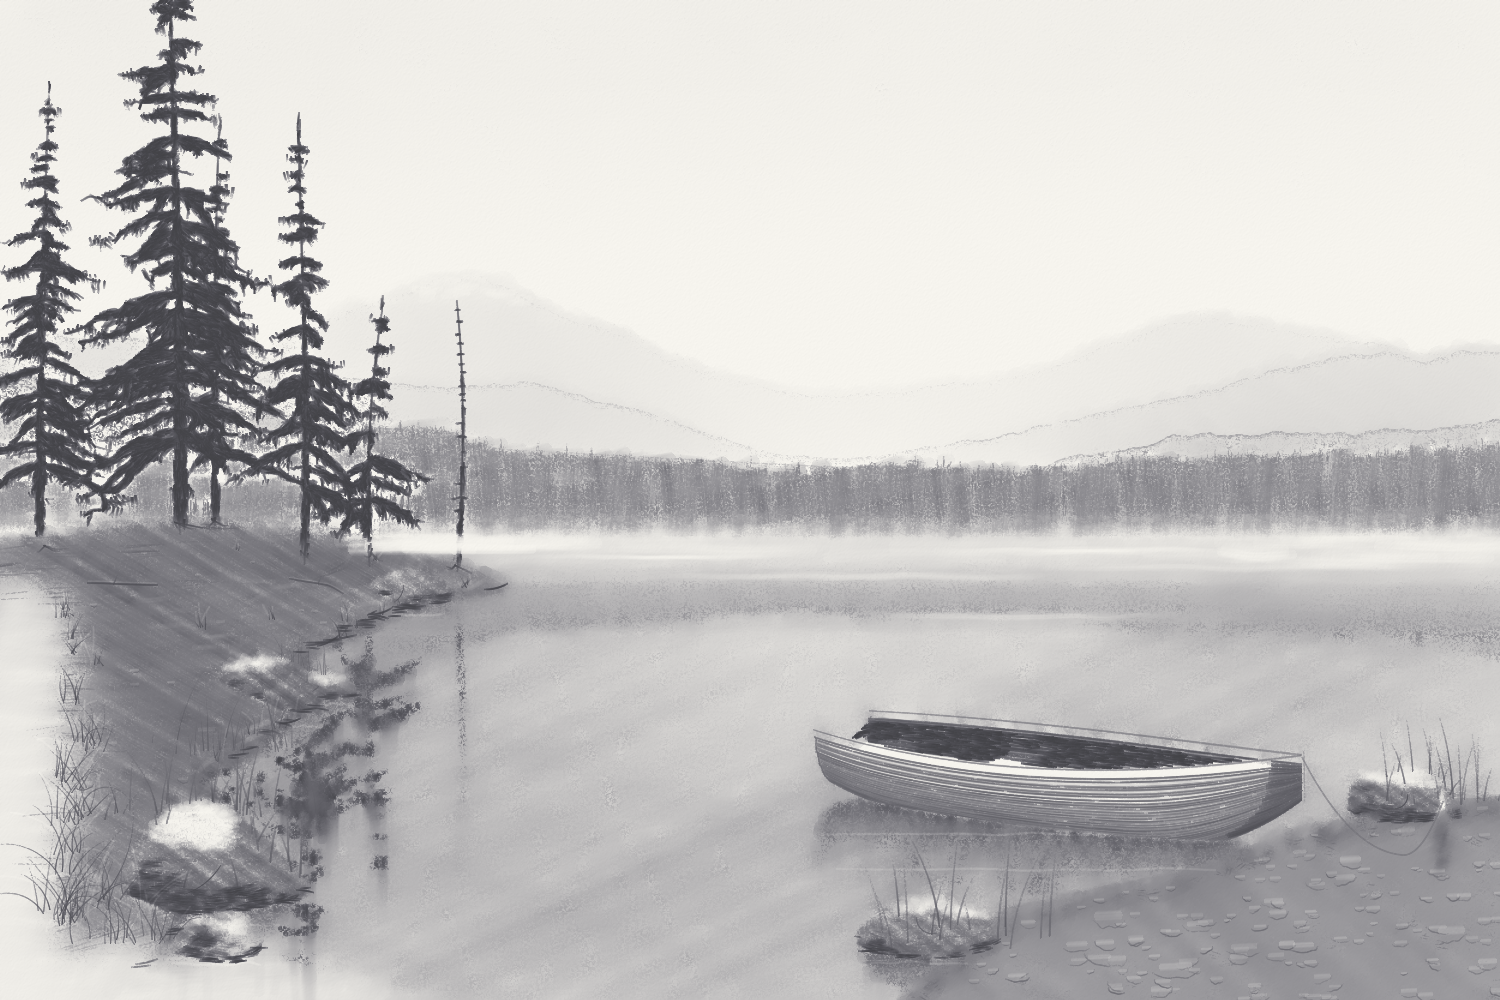
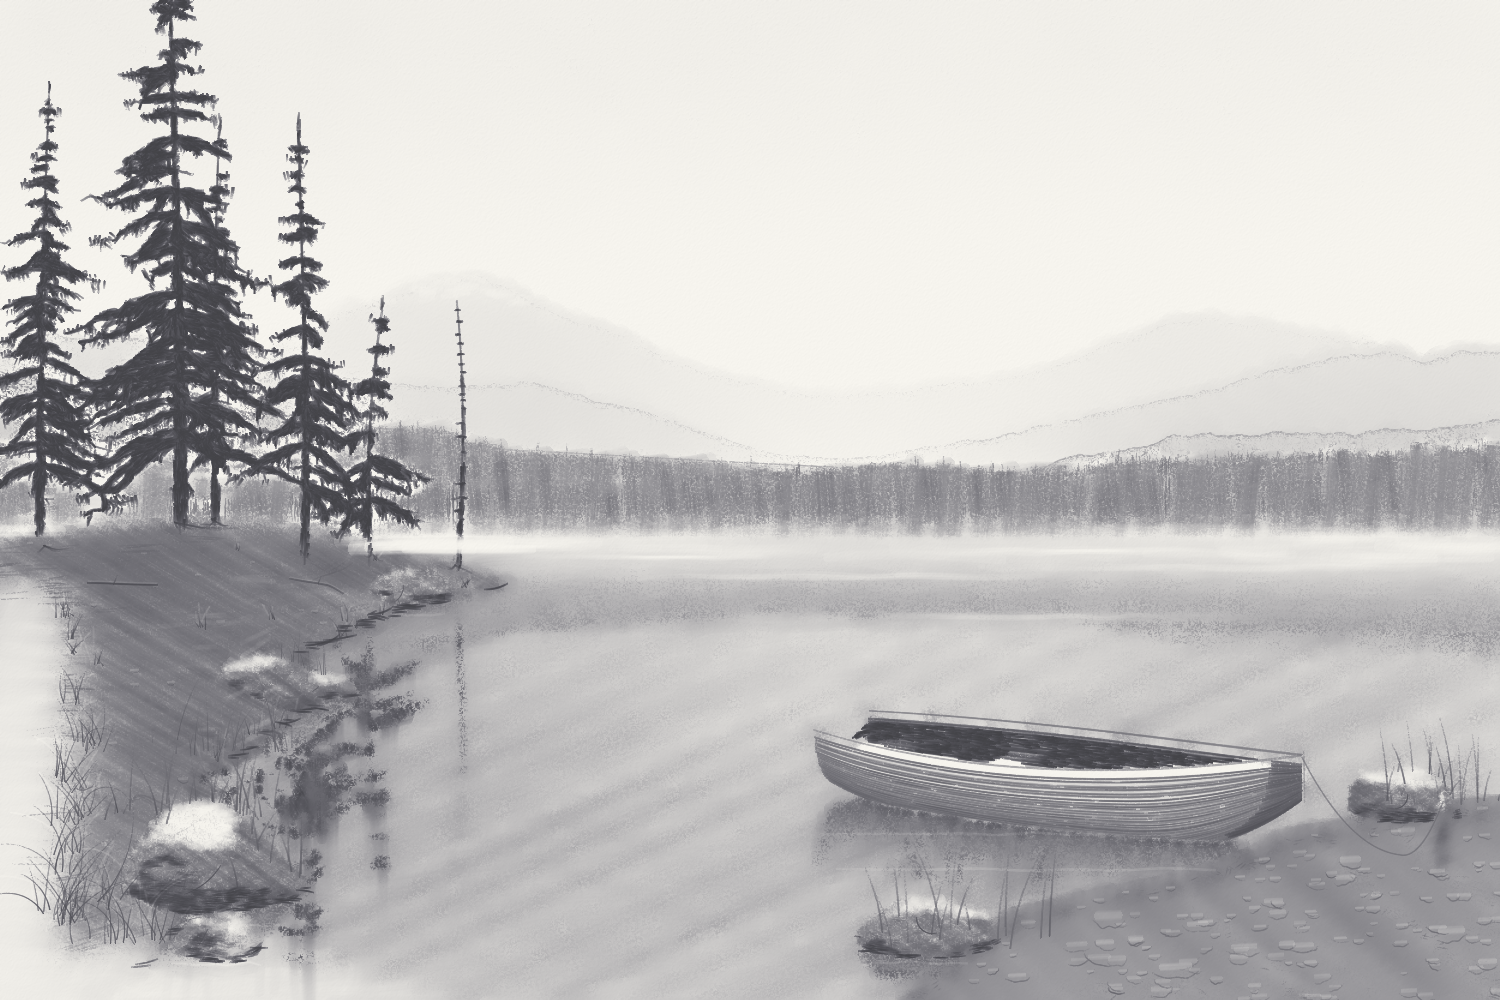
An unsteady hand leaves no band between two passes of a rub (joce/fusain#65)
Claude-Session: https://claude.ai/code/session_01EHReohrwBs9fBu12gULkAr

diff --git a/tests/fusain/test_rub.py b/tests/fusain/test_rub.py
@@ -95,28 +95,48 @@ def test_a_tool_rubbed_over_a_tone_leaves_nothing_past_its_edge(tool, angle):
 
 
 @pytest.mark.parametrize(
-    ("tool", "pressure", "rim"),
-    [(tools.STUMP, 0.6, 4), (tools.FINGER, 0.6, 7), (tools.ERASER, 0.15, 5)],
+    ("tool", "pressure", "rim", "inside"),
+    [
+        (tools.STUMP, 0.6, 4, 0.75),
+        (tools.FINGER, 0.6, 7, 0.75),
+        (tools.ERASER, 0.15, 5, 0.5),
+    ],
 )
-def test_a_rub_works_its_area_up_to_the_edge(tool, pressure, rim):
+def test_a_rub_works_its_area_up_to_the_edge(tool, pressure, rim, inside):
     # a tone wider than the area, so that it is even across the edge. The
-    # outermost pixels of the area are rubbed, and from the rounded rim of
-    # the tool in (about a third of its width, ``rim`` pixels) the area is
-    # rubbed at the ends of the passes (left and right) and along their
-    # sides (top and bottom) as at its middle. (A stump or a finger smooths
-    # the grain; an eraser pressed lightly takes a share of the tone. Where
-    # the ends of the passes strayed either way and lightened, a light
-    # eraser took 0.4 to 0.75 as much as in the middle over a width in.)
-    # The rub has a seed of its own: the passes of a hand as unsteady as
-    # this stray across by 0.15 of a width either way, half a width apart,
-    # and two of them now and then stray a width apart and leave a band
-    # between them that only the rims of the tool reach, rubbed a fifth as
-    # much as the middle, which this test is not about.
+    # outermost pixels of the area are rubbed, if only by the rim of the
+    # tool (the outermost row along a pass as little as a few thousandths
+    # as much as the middle, over two hundred samples), and from the
+    # rounded rim of the tool in (about a third of its width, ``rim``
+    # pixels) the area is rubbed at the ends of the passes (left and right)
+    # and along their sides (top and bottom) as at its middle. (A stump or
+    # a finger smooths the grain; an eraser pressed lightly takes a share
+    # of the tone. Where the ends of the passes strayed either way and
+    # lightened, a light eraser took 0.4 to 0.75 as much as in the middle
+    # over a width in.) Over several samples of the hand, each rubbed over
+    # the same tone. (Over thirty, from the rim in: 0.82 at worst for a
+    # stump, 0.77 for a finger; a light eraser takes as each pass bears,
+    # firmer or lighter by 0.15, and a row of it 0.57.)
     sheet = Sheet(300, 200, paper=papers.CARTRIDGE, seed=1)
     for a in (30, -40):
         sheet.shade((10, 10, 290, 190), charcoal.VINE, 0.6, 9.0, angle=a)
     before, light = sheet.pigment().astype(np.float64), _luminance(sheet)
-    sheet.rub((40, 40, 260, 160), Smudger(tool), pressure, seed=4)
+    for seed in range(5):
+        rubbed = _rubbed_share(sheet.copy(), tool, pressure, seed, before, light)
+        middle = rubbed(slice(70, 130), slice(90, 210))
+        assert middle > 0.4
+        for k in range(14):
+            ends = (rubbed(slice(65, 135), 40 + k), rubbed(slice(65, 135), 259 - k))
+            sides = (rubbed(40 + k, slice(80, 220)), rubbed(159 - k, slice(80, 220)))
+            least = 0.0 if k < rim else inside
+            assert min(ends) > least * middle, (seed, k, ends)
+            assert min(sides) > least * middle, (seed, k, sides)
+
+
+def _rubbed_share(sheet, tool, pressure, seed, before, light):
+    """How much of the tone (an eraser) or of its grain (a stump, a finger)
+    a rub of ``sheet`` takes, as a function of rows and columns."""
+    sheet.rub((40, 40, 260, 160), Smudger(tool), pressure, seed=seed)
     after, dark = sheet.pigment().astype(np.float64), _luminance(sheet)
 
     def rubbed(rows, cols) -> float:
@@ -124,14 +144,58 @@ def test_a_rub_works_its_area_up_to_the_edge(tool, pressure, rim):
             return 1.0 - after[rows, cols].sum() / before[rows, cols].sum()
         return 1.0 - dark[rows, cols].std() / light[rows, cols].std()
 
-    middle = rubbed(slice(70, 130), slice(90, 210))
-    assert middle > 0.4
-    for k in range(14):
-        ends = (rubbed(slice(65, 135), 40 + k), rubbed(slice(65, 135), 259 - k))
-        sides = (rubbed(40 + k, slice(80, 220)), rubbed(159 - k, slice(80, 220)))
-        least = 0.04 if k < rim else 0.75
-        assert min(ends) > least * middle, (k, ends)
-        assert min(sides) > least * middle, (k, sides)
+    return rubbed
+
+
+@pytest.mark.parametrize(
+    ("tool", "pressure", "least"),
+    [(tools.STUMP, 0.6, 0.6), (tools.FINGER, 0.6, 0.6), (tools.ERASER, 0.15, 0.45)],
+)
+def test_an_unsteady_hand_leaves_no_band_between_two_passes(tool, pressure, least):
+    # (two passes that strayed a width apart left a band between them that
+    # only the rims of the tool reached: the least rubbed row across the
+    # passes, from the rim in, was 0.17 as rubbed as the middle for a stump
+    # and 0.10 for an eraser; over 200 samples 0.07 and 0.01 at worst, 0.01
+    # for a finger, and below 0.25 one time in twenty. Now 0.69, 0.50 and
+    # 0.66 for a finger at worst; a steady hand leaves 0.81, 0.66 and 0.83,
+    # the grain of the tone, the tool's own and how each pass bears)
+    sheet = Sheet(300, 200, paper=papers.CARTRIDGE, seed=1)
+    for a in (30, -40):
+        sheet.shade((10, 10, 290, 190), charcoal.VINE, 0.6, 9.0, angle=a)
+    before, light = sheet.pigment().astype(np.float64), _luminance(sheet)
+    for seed in range(5):
+        rubbed = _rubbed_share(sheet.copy(), tool, pressure, seed, before, light)
+        middle = rubbed(slice(70, 130), slice(90, 210))
+        rows = [rubbed(y, slice(80, 220)) for y in range(47, 153)]
+        assert min(rows) > least * middle, (seed, int(np.argmin(rows)) + 47)
+
+
+def test_neighbouring_passes_are_never_further_apart_than_the_hand_allows(
+    monkeypatch,
+):
+    outline = hatching.as_outline((40, 40, 260, 160))
+
+    def drawn(seed: int):
+        rng = np.random.default_rng(seed)
+        across = [
+            float(np.mean(path[:, 1]))
+            for path, _ in hatching.passes(outline, 0.0, 10.0, 5.0, 1.0, rng)
+        ]
+        return np.diff(across), rng.bit_generator.state
+
+    # (the passes kept to their lines, which they otherwise wander about by
+    # WANDER of a width: it draws the same numbers either way)
+    monkeypatch.setattr(hatching, "WANDER", 0.0)
+    for seed in range(200):
+        gaps, state = drawn(seed)
+        assert gaps.max() <= hatching.SPREAD * 10.0 + 1e-9, seed
+        with monkeypatch.context() as free:  # (and a hand left to stray)
+            free.setattr(hatching, "SPREAD", 1e9)
+            loose, loose_state = drawn(seed)
+        # draws the same numbers, whether or not it strays too far
+        assert state == loose_state
+        if seed == 20:  # (which, left to stray, opens a gap of over a width)
+            assert loose.max() > 10.0
 
 
 def test_the_passes_of_a_rub_keep_the_tool_inside_the_area():

diff --git a/murex/fusain/hatching.py b/murex/fusain/hatching.py
@@ -18,6 +18,12 @@ SPACING = 0.55
 STRAY_ACROSS = 0.15
 STRAY_ALONG = 0.5
 WANDER = 0.1
+#: Neighbouring passes of a rub are no further apart than this (in widths
+#: of the tool), however the hand strays, so that the tool covers the paper
+#: between them with more than its rim: two passes that strayed a width
+#: apart left a band between them that only the rims reached, rubbed a
+#: fifth as much as the rest.
+SPREAD = 0.6
 #: A stroke does not wander by more than this share of its own length, so
 #: that a stub cut short by a corner of the area stays near the hatching's
 #: direction (a stroke of two widths or more wanders as far as ever).
@@ -135,7 +141,10 @@ def passes(
     that line, the outermost passes run along it, and the others lie evenly
     between, no more than ``spacing`` apart. In the middle of the area the
     hand is as unsteady as in a shading (each pass strays across and wanders
-    as a stroke does); where the tool meets the edge it is guided by it, as
+    as a stroke does), but it keeps each pass within ``SPREAD`` of a width
+    of the one before (or as far apart as they are meant to be, if that is
+    further), so that it leaves no band between two passes that only the
+    rim of the tool reaches; where the tool meets the edge it is guided by it, as
     steady as anywhere along a pass: the ends of a pass and the passes along
     the edge stray only as a point of a pass wanders (``WANDER``, a fifth of
     how far the ends of a pencil's strokes stray), and only inwards. Where
@@ -150,10 +159,18 @@ def passes(
     if hi < lo:
         lo = hi = 0.5 * (lo + hi)
     count = int(math.ceil((hi - lo) / spacing)) + 1
+    # (no two neighbours further apart than this, nor than they are meant
+    # to be, if that is further)
+    apart = max(SPREAD * width, (hi - lo) / max(count - 1, 1))
+    last = lo
     for k, offset in enumerate(np.linspace(lo, hi, count)):
         if 0 < k < count - 1:  # (the outermost passes go along the edge)
             offset += rng.normal(0.0, STRAY_ACROSS * width * hand)
-            offset = min(max(offset, lo), hi)
+            # (it strays no further from the pass before it than ``apart``,
+            # and leaves the passes after it near enough to reach the last)
+            offset = min(offset, hi, last + apart)
+            offset = max(offset, lo, hi - (count - 1 - k) * apart)
+        last = offset
         cuts = _crossings(outline, across, offset)
         for start, end in zip(cuts[0::2], cuts[1::2], strict=True):
             length = float((end - start) @ along)

diff --git a/docs/fusain/CHANGELOG.md b/docs/fusain/CHANGELOG.md
@@ -329,6 +329,33 @@ and the project adheres to [Semantic Versioning](https://semver.org/).
   rubbed a fifth as much as the middle; and two tests that stand in for
   `Sheet.stroke` pass on the seed a shading now gives it.
 
+- An unsteady hand leaves no band between two passes of a rub. The passes
+  of `hatching.passes` lie half a width apart, and each strayed across by
+  0.15 of a width either way, so that two neighbours were now and then a
+  width apart, and the band between them was reached only by the rims of
+  the tool: a stump rubbed a row there 0.17 as much as the middle of the
+  area, an eraser 0.10. Over 200 rubs of a vine charcoal tone (a stump, a
+  finger and a light eraser, ten sheets, twenty seeds each), the least
+  rubbed row across the passes was 0.07, 0.01 and 0.01 as rubbed as the
+  middle at worst, and below a quarter one rub in twenty. A pass now keeps
+  within `hatching.SPREAD`, 0.6 of a width, of the one before (or as far
+  as the passes are meant to be apart, if that is further), and leaves
+  those after it room to reach the last: 0.69, 0.66 and 0.50 at worst, where
+  a steady hand leaves 0.81, 0.83 and 0.66. It draws the same numbers as
+  before, so a rub moves only where a pass would have strayed too far.
+  `tests/test_rub.py` checks the gaps over 200 samples of the hand, and the
+  rows of a rub and its edge over five: the edge test took one sample, which
+  had passed by luck (its bounds failed on other samples, before and after);
+  its outermost pixels are now asked to be rubbed at all (the rim of a tool
+  reaches them as little as a few thousandths as much as the middle), and
+  a light eraser, which takes as each pass bears, half as much as the
+  middle from the rim in. Five of the thirteen drawings of
+  `tools/fingerprint.py` have new hashes (`dust/charcoal paper/4`,
+  `dust/rough/5`, `wax/cartridge/7`, `wax/cold-pressed/8`, `drawing/toned
+  grey/13`); `pastel/sanded card/6` rubs but no pass of it strayed too far.
+  Of `examples/output/`, `charcoal.png`, `crayons.png` and `lake.png`
+  change.
+
 - A drop of ballpoint ink inks a pixel as far as it is ink (fusain-9dg).
   A drop inked a pixel as far as all the ink there would cover a firm pass
   thick, its own and the line's: any drop, however small, inked all of a

diff --git a/docs/fusain/design.md b/docs/fusain/design.md
@@ -881,7 +881,13 @@ half its width inside the outline of the area, and its edge comes to the
 area's edge and no further: every pass runs from that line to that line,
 the outermost passes run along it, and the others lie evenly between. In
 the middle of the area the hand is as unsteady as a shading's (the passes
-stray across and wander); where the tool meets the edge it is guided by it,
+stray across and wander), but it keeps each pass within `SPREAD`, 0.6 of
+the tool's width, of the one before: passes half a width apart that each
+strayed by 0.15 of a width either way were now and then a width apart, and
+left a band between them that only the rims of the tool reached, rubbed a
+fifth as much as the rest (a row across the passes was rubbed below a
+quarter as much as the middle in one rub in twenty); where the tool meets
+the edge it is guided by it,
 as steady as anywhere along a pass: the ends of the passes and the passes
 along the edge stray only as a point of a pass wanders (`WANDER`, a tenth
 of the tool's width, where the ends of a pencil's strokes stray by
